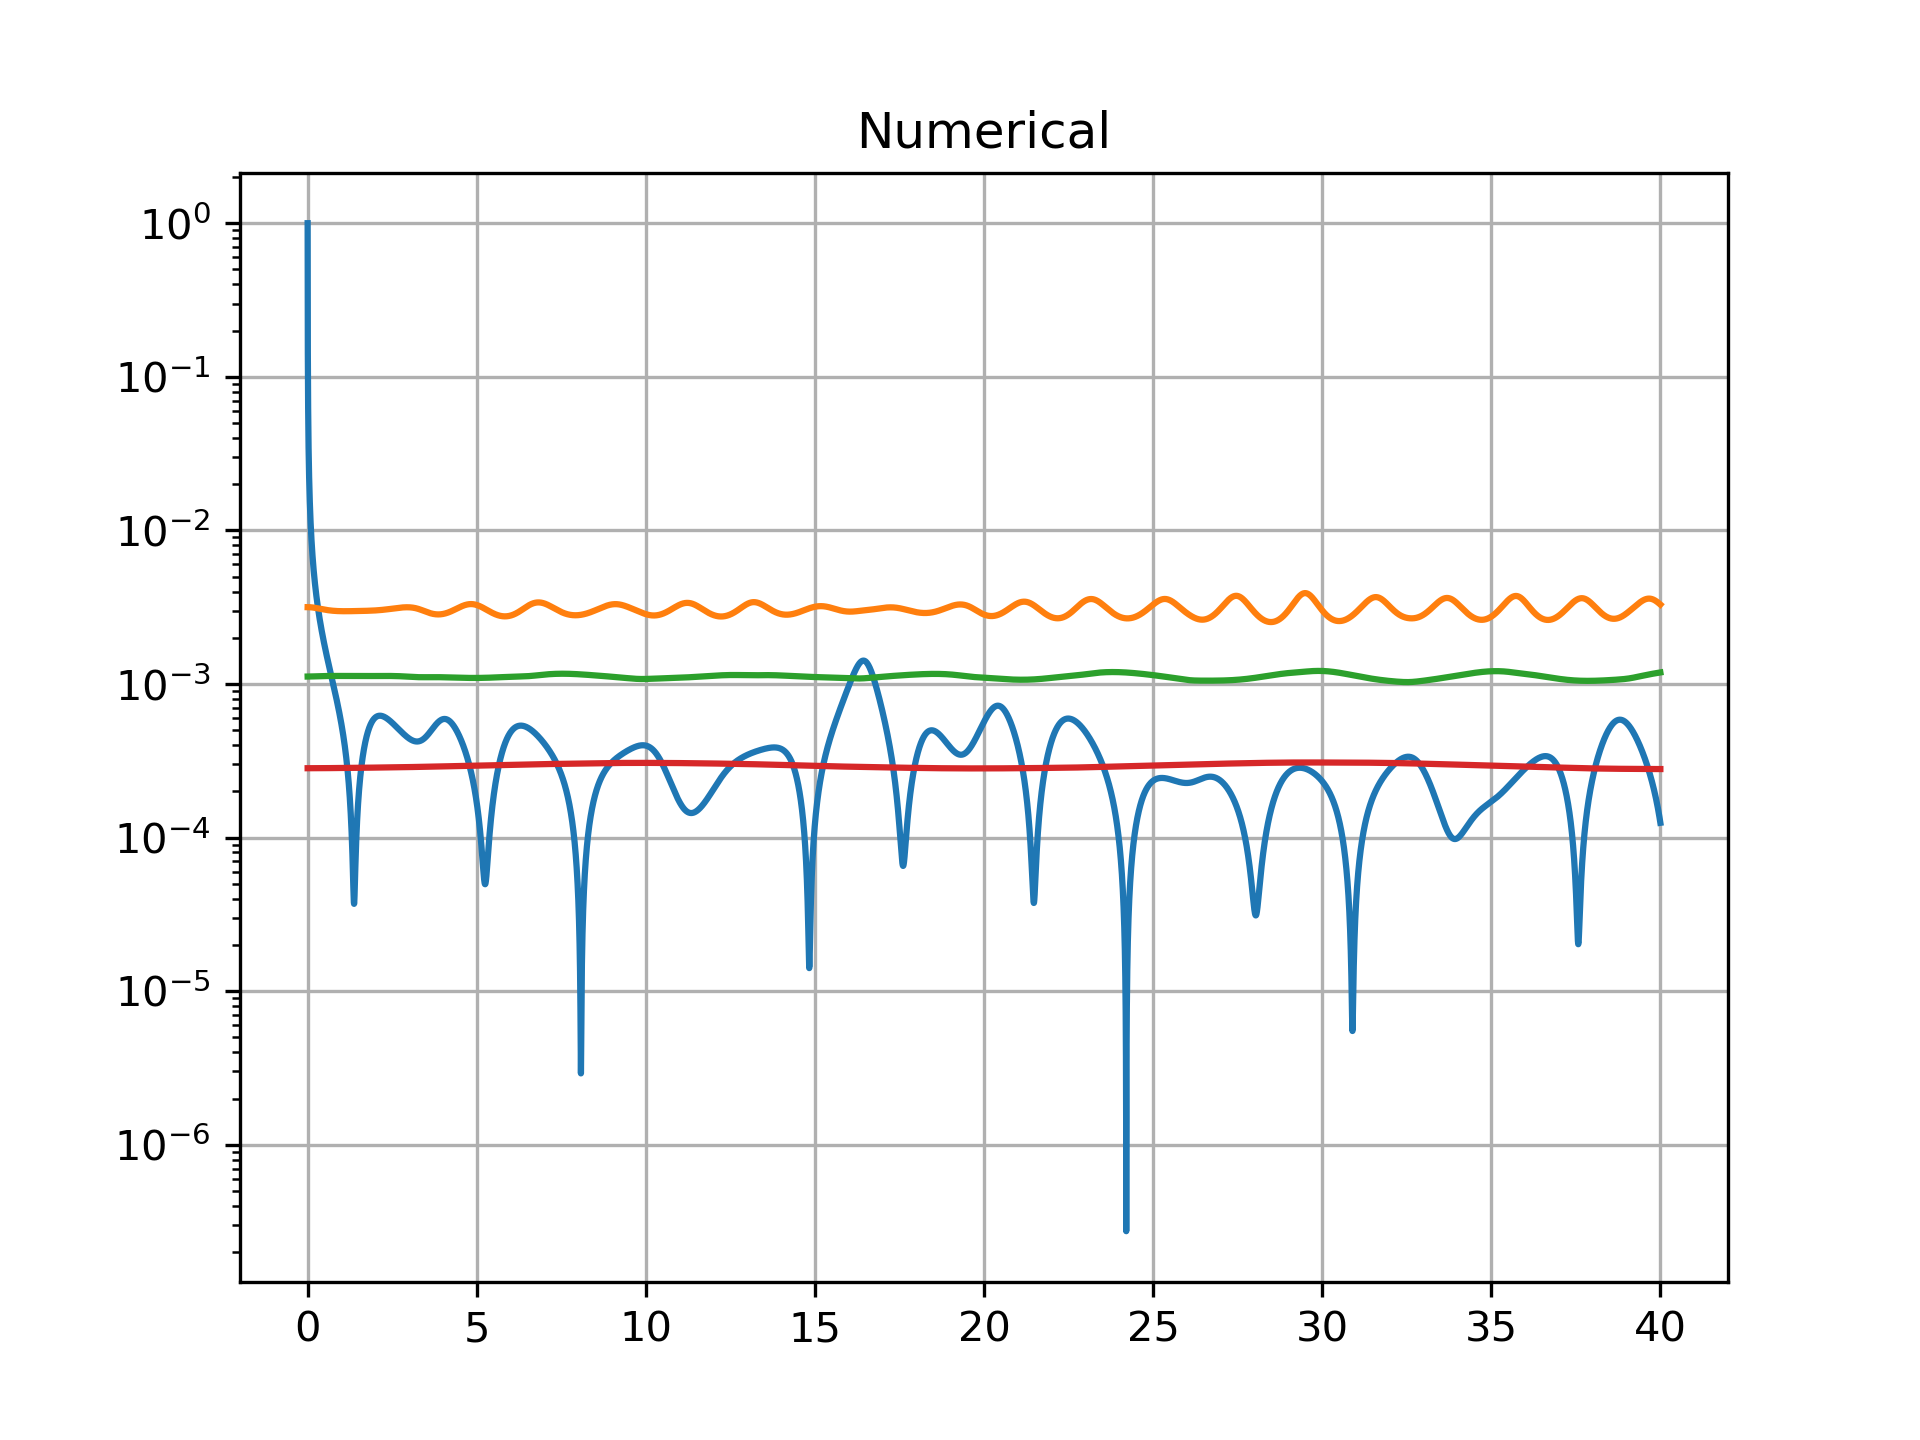
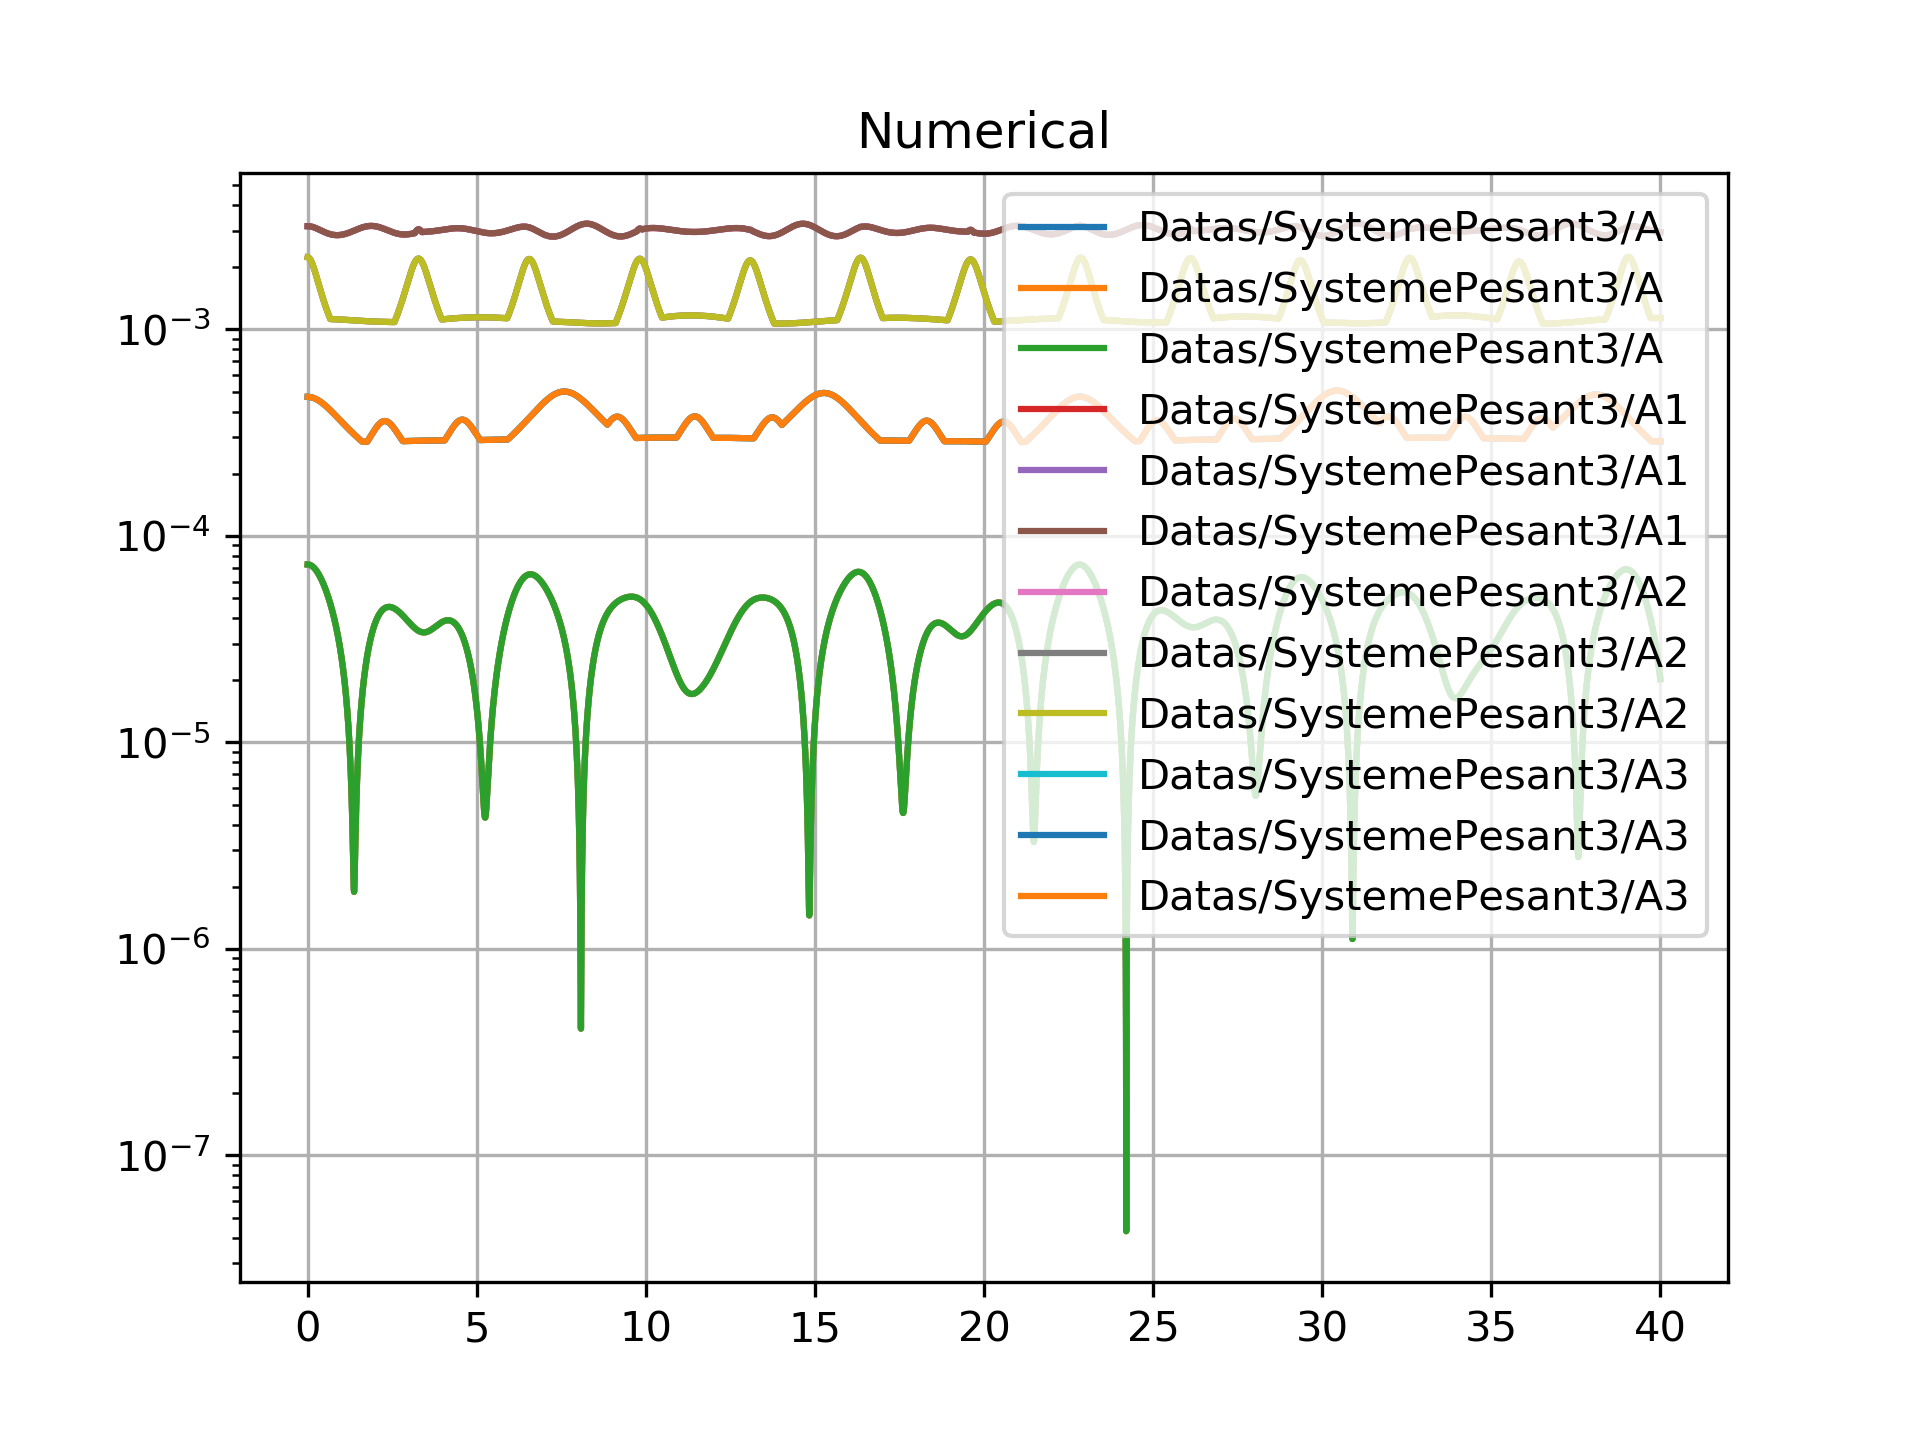
MAJ
Modification a cause du changement de la fonction NumericalRelativeSpeed dans le commit f654c9a9384ddacd913540cca76c5ee6c8543b1f

diff --git a/SystemePesant.py b/SystemePesant.py
@@ -7,7 +7,7 @@ from MyPack.FFT import *
 from MyPack.Convert import *
 import time as t
 
-SIMULATION = True
+SIMULATION = False
 PLOT = True
 SAVE_FIGURE = True # Si PLOT == True
 path = "Datas/SystemePesant3/"
@@ -81,5 +81,9 @@ if PLOT:
 
     plt.figure("Numerical")
     plt.title("Numerical")
-    for i, csv in enumerate(CSV_List): NumericalRelativeSpeed(path+csv,mark="-")
+    CSV_List_copy = CSV_List.copy()
+    for i,_ in enumerate(CSV_List):
+        CSV_List_copy[i] = path + _
+    for i, csv in enumerate(CSV_List_copy): NumericalRelativeSpeed(csv,CSV_List_copy,mark="-",label=csv.split("_")[0])
+    del CSV_List_copy
     if SAVE_FIGURE: plt.savefig(path+"Numerical", dpi=300)
